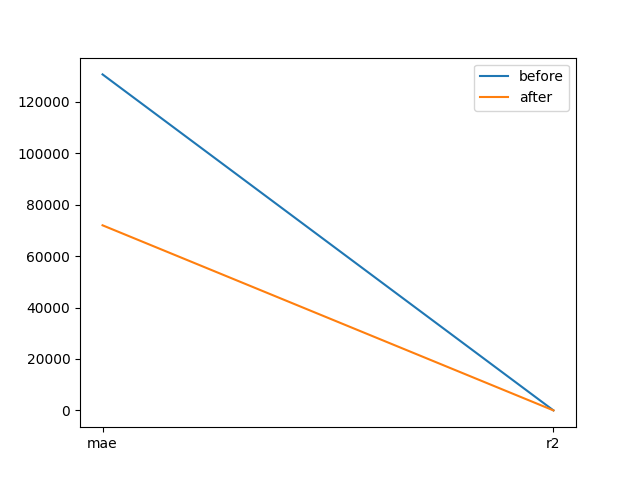
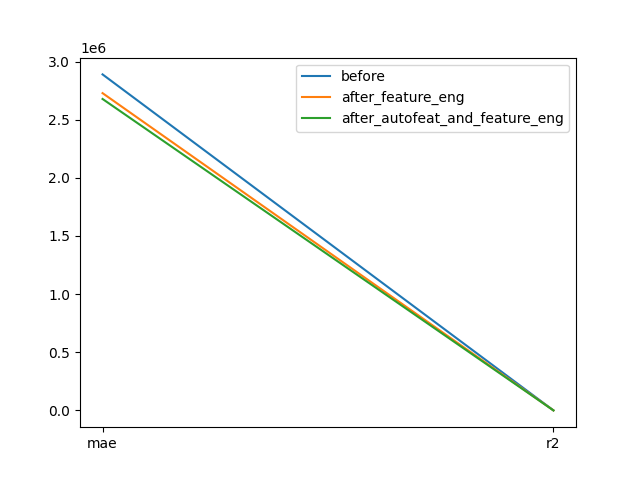
Autofeat and logging

diff --git a/README.md b/README.md
@@ -18,3 +18,10 @@ vesrion_model: 1
 Notebook с исследованиями: EDA.ipynb
 Папка с графиками: assets
 run_id логирования: 4d9a87e125a14e798712d9df4429239f
+
+Этап 3:
+Notebook с улучшением модели: model_improvement/feature_extracting.ipynb
+График улучшения метрик: assets/metrics_improvement.png
+run_id логирования: e87400ce4ceb4c0ea103efb6bb4c69fe
+model_name: better_model_aleksandra
+version_model: 1
